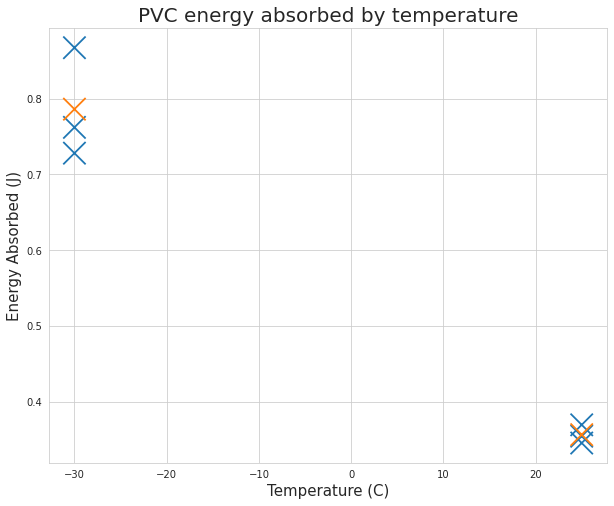
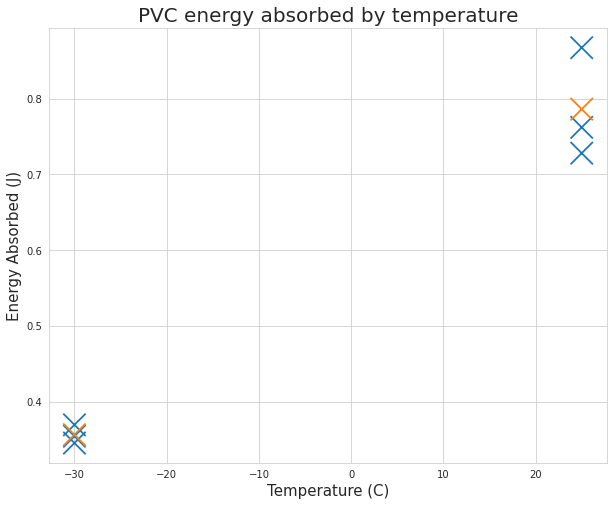
swapped pvc numbers accidentally. Fixed it and modified the png image

diff --git a/mechanics_and_materials/material_impact_test.py b/mechanics_and_materials/material_impact_test.py
@@ -3,7 +3,7 @@ import seaborn as sb
 import matplotlib.pyplot as plt
 
 steel_data = {"energy":[45.1,26.5,25.5,32.3,8.8,12.7],'temp':[50,35,25,0,-15,-30]}
-pvc_data = {'energy':[.346,.355,.37,.357,.728,.867,.762,.786],'temp':[25,25,25,25,-30,-30,-30,-30],'isavg':[0,0,0,1,0,0,0,1]}
+pvc_data = {'energy':[.728,.867,.762,.786,.346,.355,.37,.357],'temp':[25,25,25,25,-30,-30,-30,-30],'isavg':[0,0,0,1,0,0,0,1]}
 hdpe_data = {'energy':[1.278,2.156,1.289,1.57,.909,.802,1.047,.919],'temp':[25,25,25,25,-30,-30,-30,-30],'isavg':[0,0,0,1,0,0,0,1]}
 
 steel_df = pd.DataFrame(steel_data)
